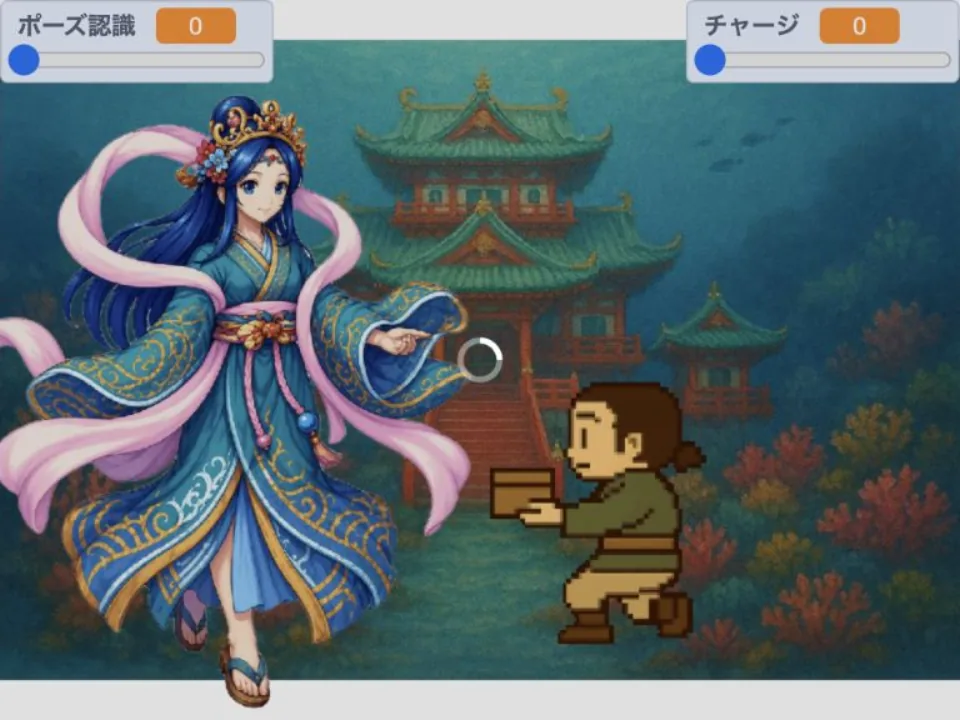
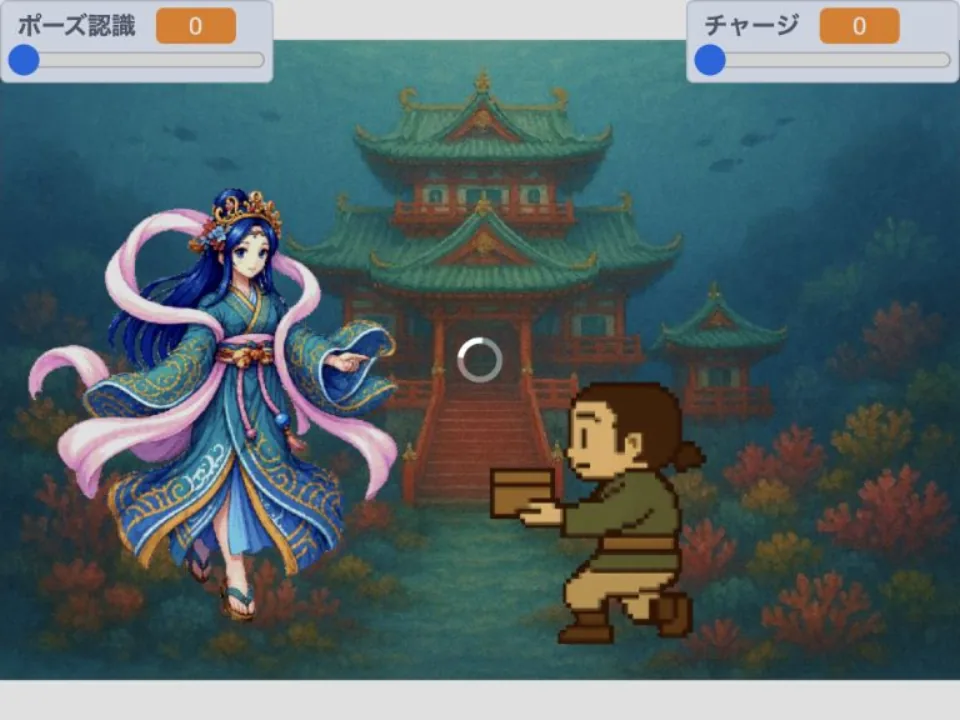
docs(site): retake my-urashima card scene

Changed region(s): [[0.0, 0.1222, 0.5312, 1.0]]

diff --git a/site/CARD_SCENES.md b/site/CARD_SCENES.md
@@ -17,10 +17,10 @@
 
 - 公開ファイル: `stories/my-urashima/card-scene.webp`
 - 内容: 竜宮城で乙姫と、玉手箱を差し出す浦島太郎が表示されたDSL 4.0実行画面
-- 撮影基準: `tmpose-kamishibai@f323a5475d4c6240a255f8a6f5b6c5d68b9ea7b6`（4.0.0-rc.5）、`tmpose-kamishibai-samples@9abcee7`
+- 撮影基準: `tmpose-kamishibai@f323a5475d4c6240a255f8a6f5b6c5d68b9ea7b6`（4.0.0-rc.5）、`tmpose-kamishibai-samples@b3a62eb`
 - 撮影条件: Chrome、1280×720表示、実人物のcamera映像なし
-- 公開画像: 960×720、56,688 bytes
[1 lines of base64/hex data omitted]
+- 公開画像: 960×720、50,722 bytes
[1 lines of base64/hex data omitted]
 
 ### 地震だ！頭を守ろう（DSL 4.0チュートリアル）
 
